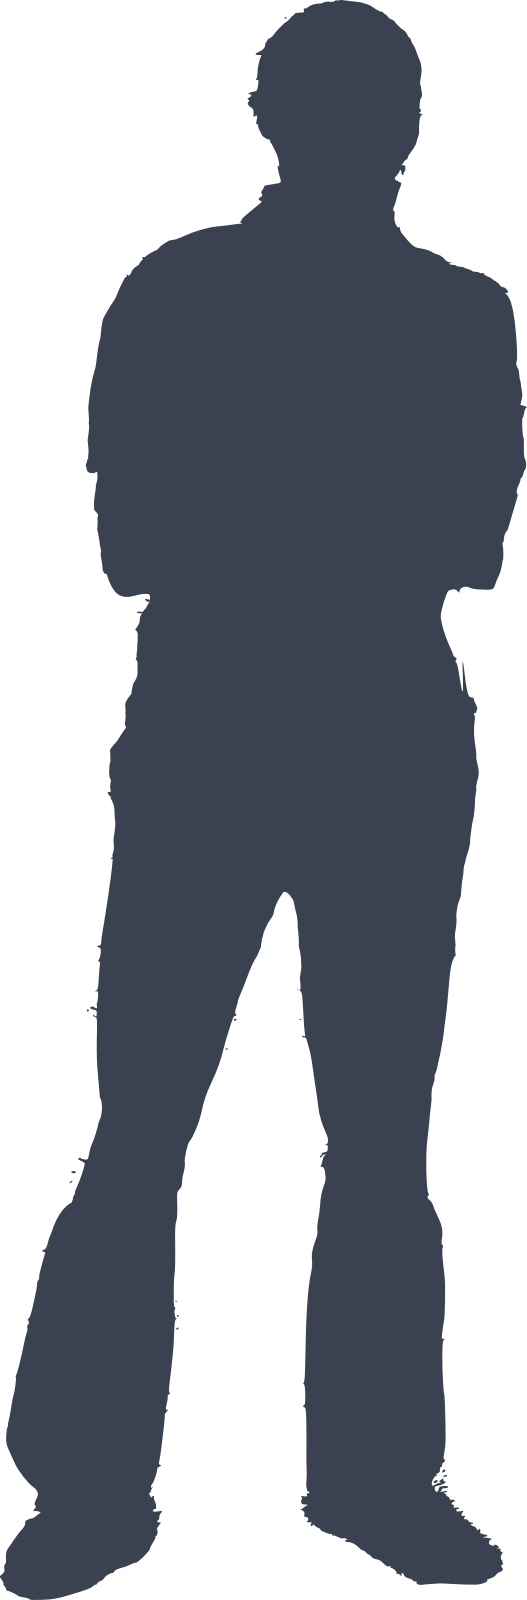
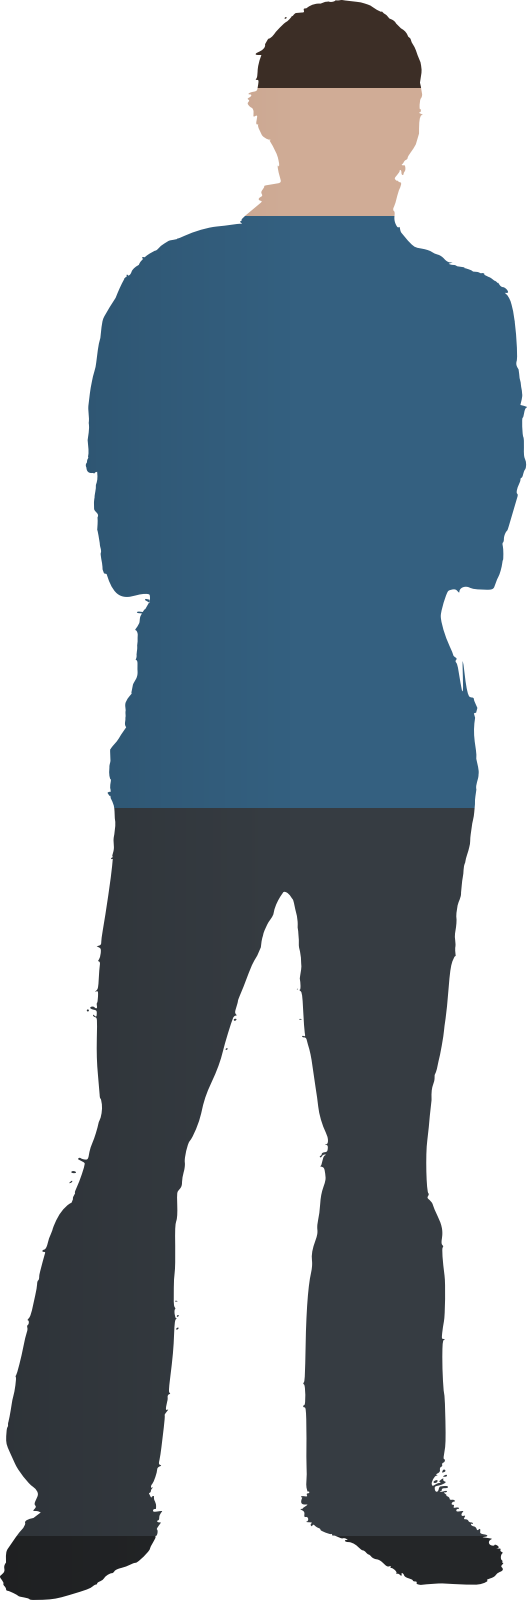
feat(components): full-colour arch-viz cutout person (flat-illustrated style)
The scale figure now shows colour: hair, skin, teal shirt, dark
trousers and shoes painted onto the CC0 photo-traced outline as flat
bands with a soft side-shading gradient — the contemporary
flat-illustrated cutout style studios use. Photo-real cutout people
with bundle-clean licences don't exist (stock sites forbid
redistribution), so colouring our CC0 outline is both the legal and the
aesthetic answer. The plain slate silhouette stays available as
'Person (silhouette)' in Insert component; the source SVG is bundled
with provenance in SOURCES.md.

Fast suite 761 green.

diff --git a/views/main_window.py b/views/main_window.py
@@ -470,6 +470,10 @@ class MainWindow(QMainWindow):
         person2d = QAction(tr("Person (2D, faces the camera)"), self)
         person2d.triggered.connect(self._on_insert_person_2d)
         components_menu.addAction(person2d)
+        person_sil = QAction(tr("Person (silhouette)"), self)
+        person_sil.triggered.connect(
+            lambda: self._on_insert_person_2d("person_silhouette.png"))
+        components_menu.addAction(person_sil)
         for key, label in (("person", tr("Person 3D")),
                            ("tree", tr("Tree")),
                            ("bush", tr("Bush")),
@@ -1048,12 +1052,12 @@ class MainWindow(QMainWindow):
         scene.version += 1
         self._saved_version = scene.version
 
-    def _make_billboard_person(self):
-        """The face-me scale figure (arch-viz silhouette, 1.75 m)."""
+    def _make_billboard_person(self, image: str = "person_billboard.png"):
+        """The face-me scale figure (arch-viz cutout, 1.75 m)."""
         from PySide6.QtGui import QImage
         from core.group import make_billboard_group
         path = (Path(__file__).resolve().parent.parent / "resources"
-                / "components" / "person_billboard.png")
+                / "components" / image)
         if not path.exists():
             return None
         img = QImage(str(path))
@@ -1062,10 +1066,10 @@ class MainWindow(QMainWindow):
         return make_billboard_group(str(path), 1.75, tr("Person"),
                                     img.width() / img.height())
 
-    def _on_insert_person_2d(self) -> None:
+    def _on_insert_person_2d(self, image: str = "person_billboard.png") -> None:
         from core.history import InsertGroupCommand
         self.viewport.end_group_edit()
-        group = self._make_billboard_person()
+        group = self._make_billboard_person(image)
         if group is None:
             QMessageBox.warning(self, tr("Insert component"),
                                 tr("Component file missing: {p}",

diff --git a/resources/components/SOURCES.md b/resources/components/SOURCES.md
@@ -1,6 +1,7 @@
 # Component sources
 
-- `person_billboard.png` — derived from "Man standing silhouette.svg"
+- `person_billboard.png` (flat-colour arch-viz cutout) and
+  `person_silhouette.png`/`.svg` — derived from "Man standing silhouette.svg"
   (Wikimedia Commons), dedicated to the public domain under **CC0 1.0**
   (no attribution required; noted here for provenance). Recoloured to the
   IngeTrazo slate tone and tight-cropped for the face-me billboard.